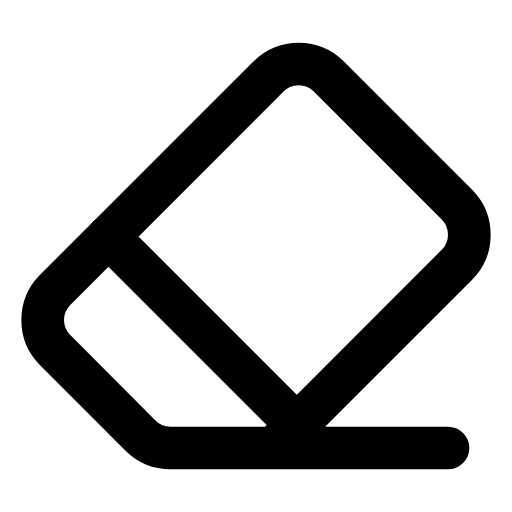
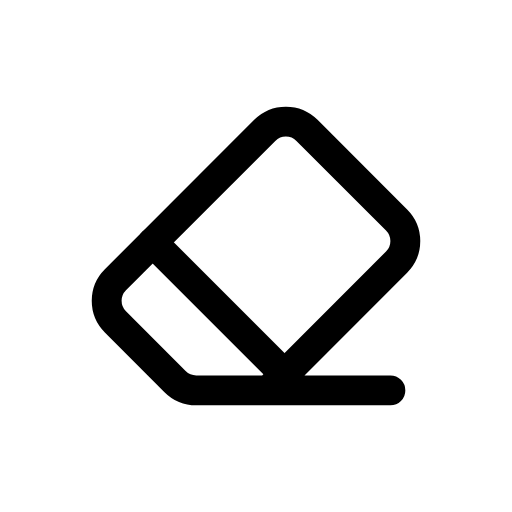
refactor(web): update app name to NoMark, modify web app manifest, and remove unused files

diff --git a/apps/web/index.html b/apps/web/index.html
@@ -6,11 +6,8 @@
     <link rel="icon" type="image/svg+xml" href="/favicon.svg" />
     <link rel="shortcut icon" href="/favicon.ico" />
     <link rel="apple-touch-icon" sizes="180x180" href="/apple-touch-icon.png" />
+    <meta name="apple-mobile-web-app-title" content="NoMark" />
     <link rel="manifest" href="/site.webmanifest" />
-    <meta name="viewport" content="width=device-width, initial-scale=1.0, viewport-fit=cover" />
-    <meta name="theme-color" content="#6366f1" />
-    <meta name="apple-mobile-web-app-capable" content="yes" />
-    <meta name="apple-mobile-web-app-status-bar-style" content="default" />
     <title>Watermark Remover</title>
   </head>
   <body>
